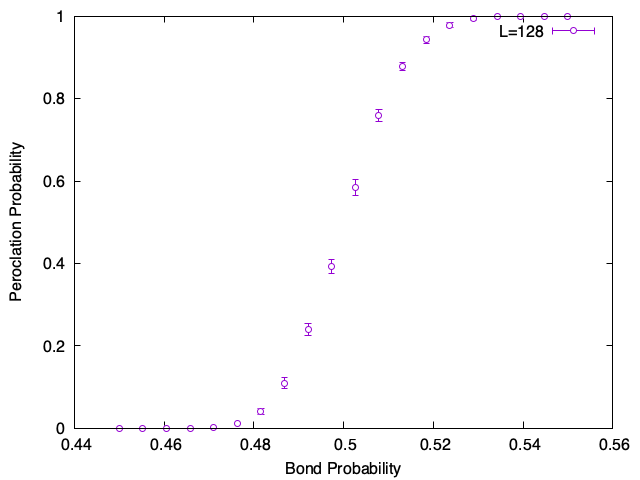
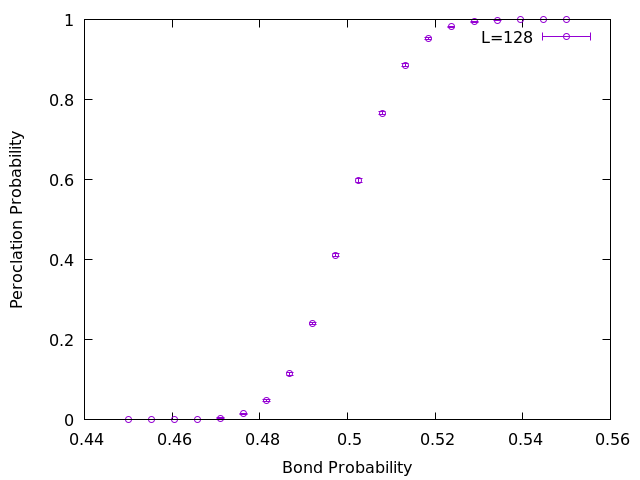
:memo: updates

diff --git a/generate_inputs.py b/generate_inputs.py
@@ -41,6 +41,7 @@ def generate_inputs(config):
 
             with filename.open("w", encoding="utf-8") as file:
                 yaml.safe_dump(parameters, file, sort_keys=False)
+            print(filename)
             files.append(filename)
 
     print(f"Generated {len(files)} input files in {output_directory}")
@@ -51,7 +52,6 @@ if __name__ == "__main__":
         print("Usage: python3 generate_inputs.py input.yaml")
         exit(1)
     config_file = sys.argv[1]
-    print(config_file)
     with open(config_file) as file:
         config = yaml.safe_load(file)
     generate_inputs(config)

diff --git a/cpp/percolation.hpp b/cpp/percolation.hpp
@@ -7,6 +7,7 @@
 #include <string>
 #include <unordered_set>
 #include <vector>
+#include <iomanip>
 
 namespace percolation {
 